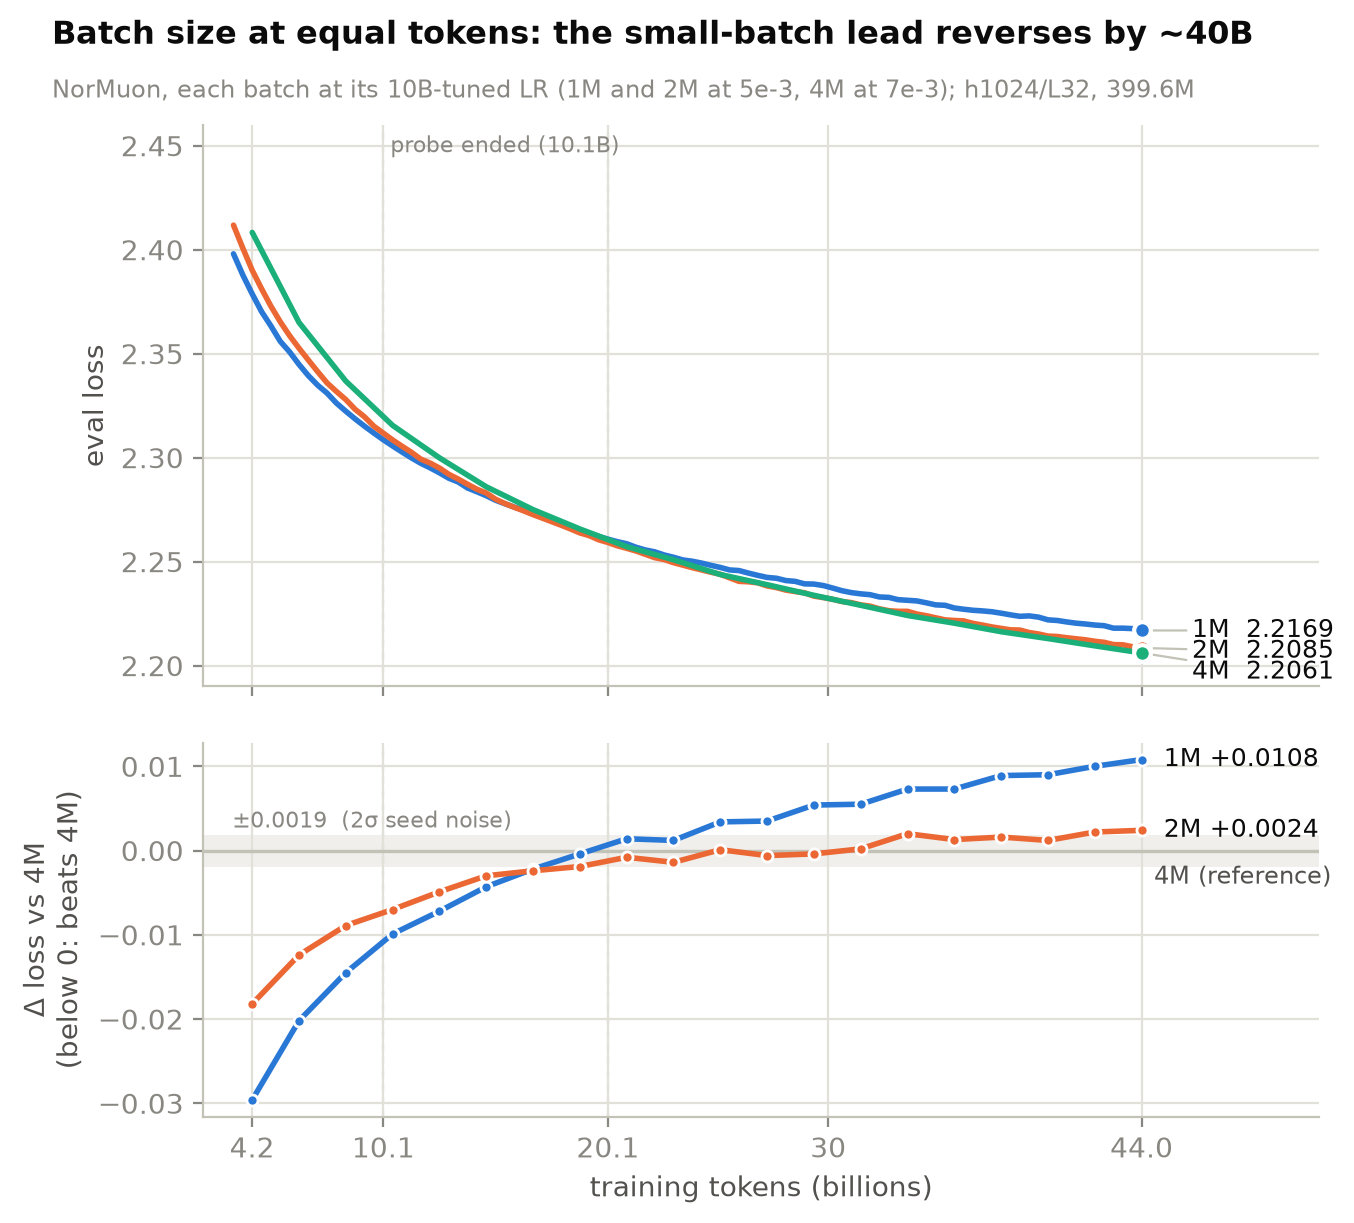
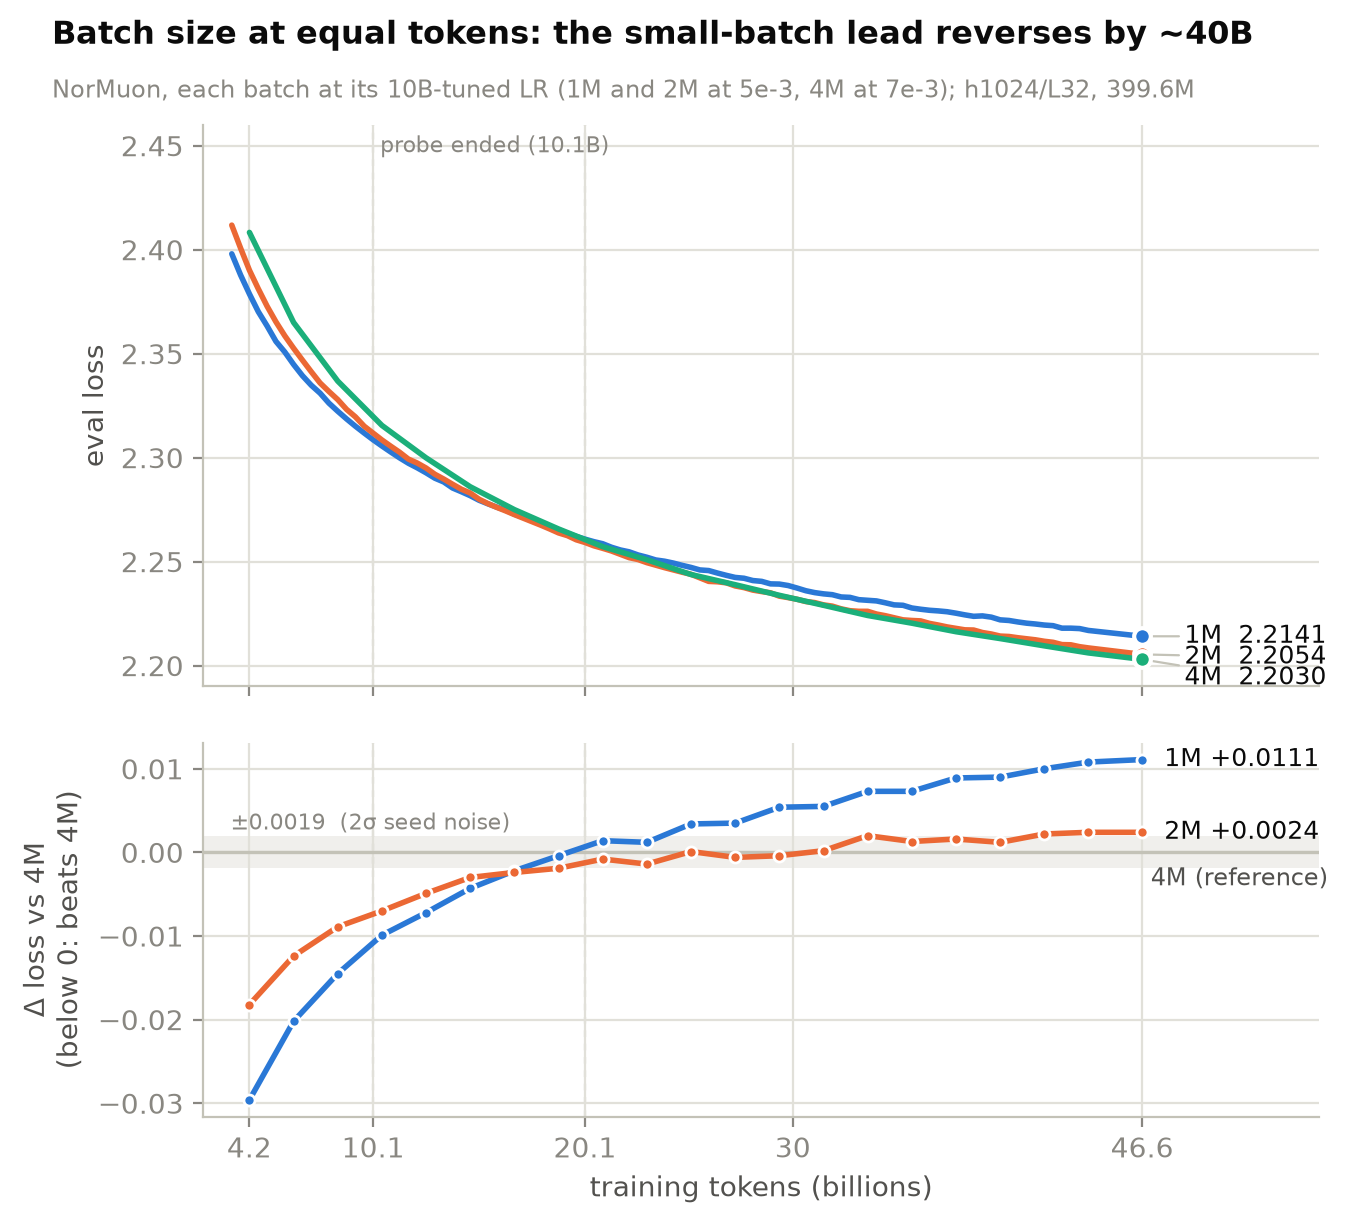
results(batch): downstream at exactly equal tokens (46.59B); figures updated

diff --git a/results.md b/results.md
@@ -114,22 +114,24 @@ Downstream at 20.13B (dev mode) mildly favours 1M on contacts (supervised long
 P@L 0.342 / 0.332 / 0.330 for 1M / 2M / 4M), inside what one seed can resolve;
 the 44B eval is job 2005881.
 
-Downstream at the horizon (dev mode, synced eval tree). 4M has no checkpoint
-at exactly 44.04B, so it is read at its 46.6B wall-clock checkpoint (step
-11107), rescored on the current battery; that is 6% more tokens than the other
-two:
+Downstream at equal tokens (dev mode, synced eval tree), all three at exactly
+46,586,134,528 tokens: the 4M control's checkpoint-11107, with 1M and 2M
+resumed to the same token count (steps 44428 / 22214):
 
-| batch | tokens | PGYM | zero-shot long P@L | supervised long P@L | newPISCES364 | scl |
-|---|---|---|---|---|---|---|
-| 1M | 44.04B | 0.3375 | 0.3990 | **0.3959** | 0.7881 | **0.5593** |
-| 2M | 44.04B | 0.3403 | 0.3939 | 0.3893 | **0.7897** | 0.5322 |
-| 4M | 46.6B | **0.3492** | **0.4008** | 0.3957 | **0.7897** | 0.5468 |
+| batch | PGYM | zero-shot long P@L | supervised long P@L | newPISCES364 | scl |
+|---|---|---|---|---|---|
+| 1M | 0.3382 | **0.4050** | **0.3966** | 0.7897 | 0.5426 |
+| 2M | 0.3402 | 0.3927 | 0.3894 | **0.7901** | **0.5530** |
+| 4M | **0.3492** | 0.4008 | 0.3957 | 0.7897 | 0.5468 |
 
-Contacts tie between 1M and 4M on both readouts, with 2M lowest; PGYM favours
-4M by 0.0117 over 1M (2.9x its 0.0040 floor), partly helped by the extra
-tokens. newPISCES364 is flat (0.0016 spread) and scl scatters by 0.027 with no batch trend, neither with a measured floor yet. Nothing downstream argues against 4M.
+PGYM favours 4M by 0.0110 over 1M (2.8x its 0.0040 floor); zero-shot contact
+favours 1M by 0.0042 (1.1x its 0.0038 floor, marginal); supervised contact is
+a 1M/4M tie with 2M lowest; newPISCES364 is flat. scl scatters with no batch
+trend. With loss favouring 4M by 5.8x its floor, nothing downstream argues
+against 4M. (Floors for supervised contact, newPISCES364 and scl are being
+measured on the replicates, eval job 2018520.)
 
-![Downstream at 44B](figures/batch/fig_batch_downstream.png)
+![Downstream at 46.6B](figures/batch/fig_batch_downstream.png)
 
 ![LR brackets at 10B](figures/batch/fig_batch_lr10b.png)
 
